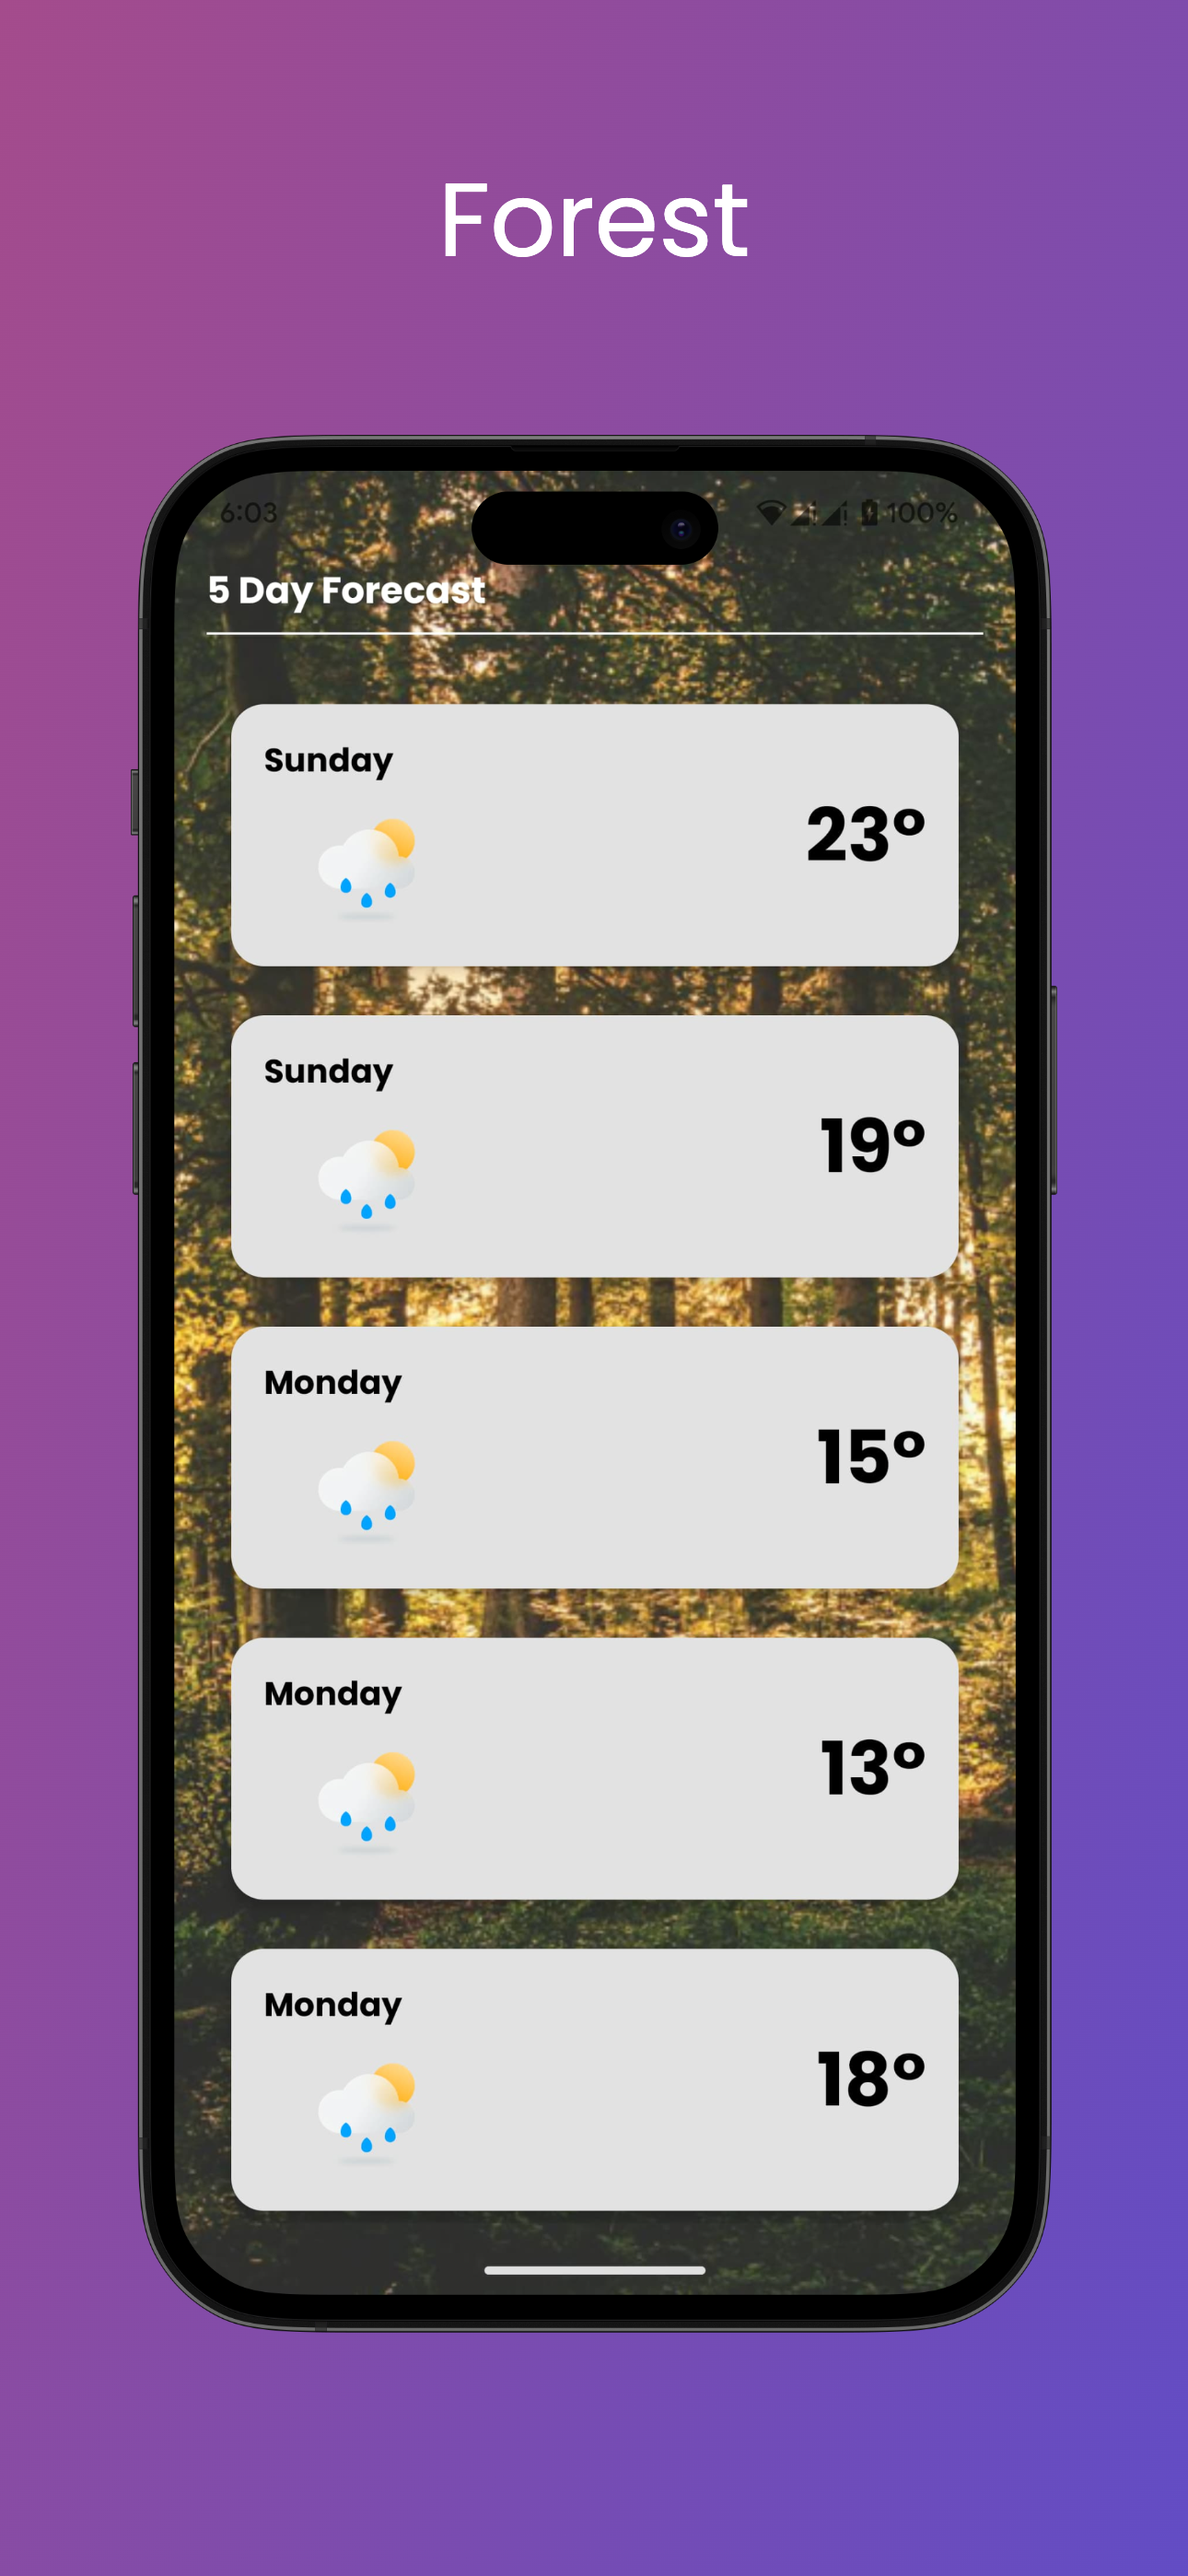
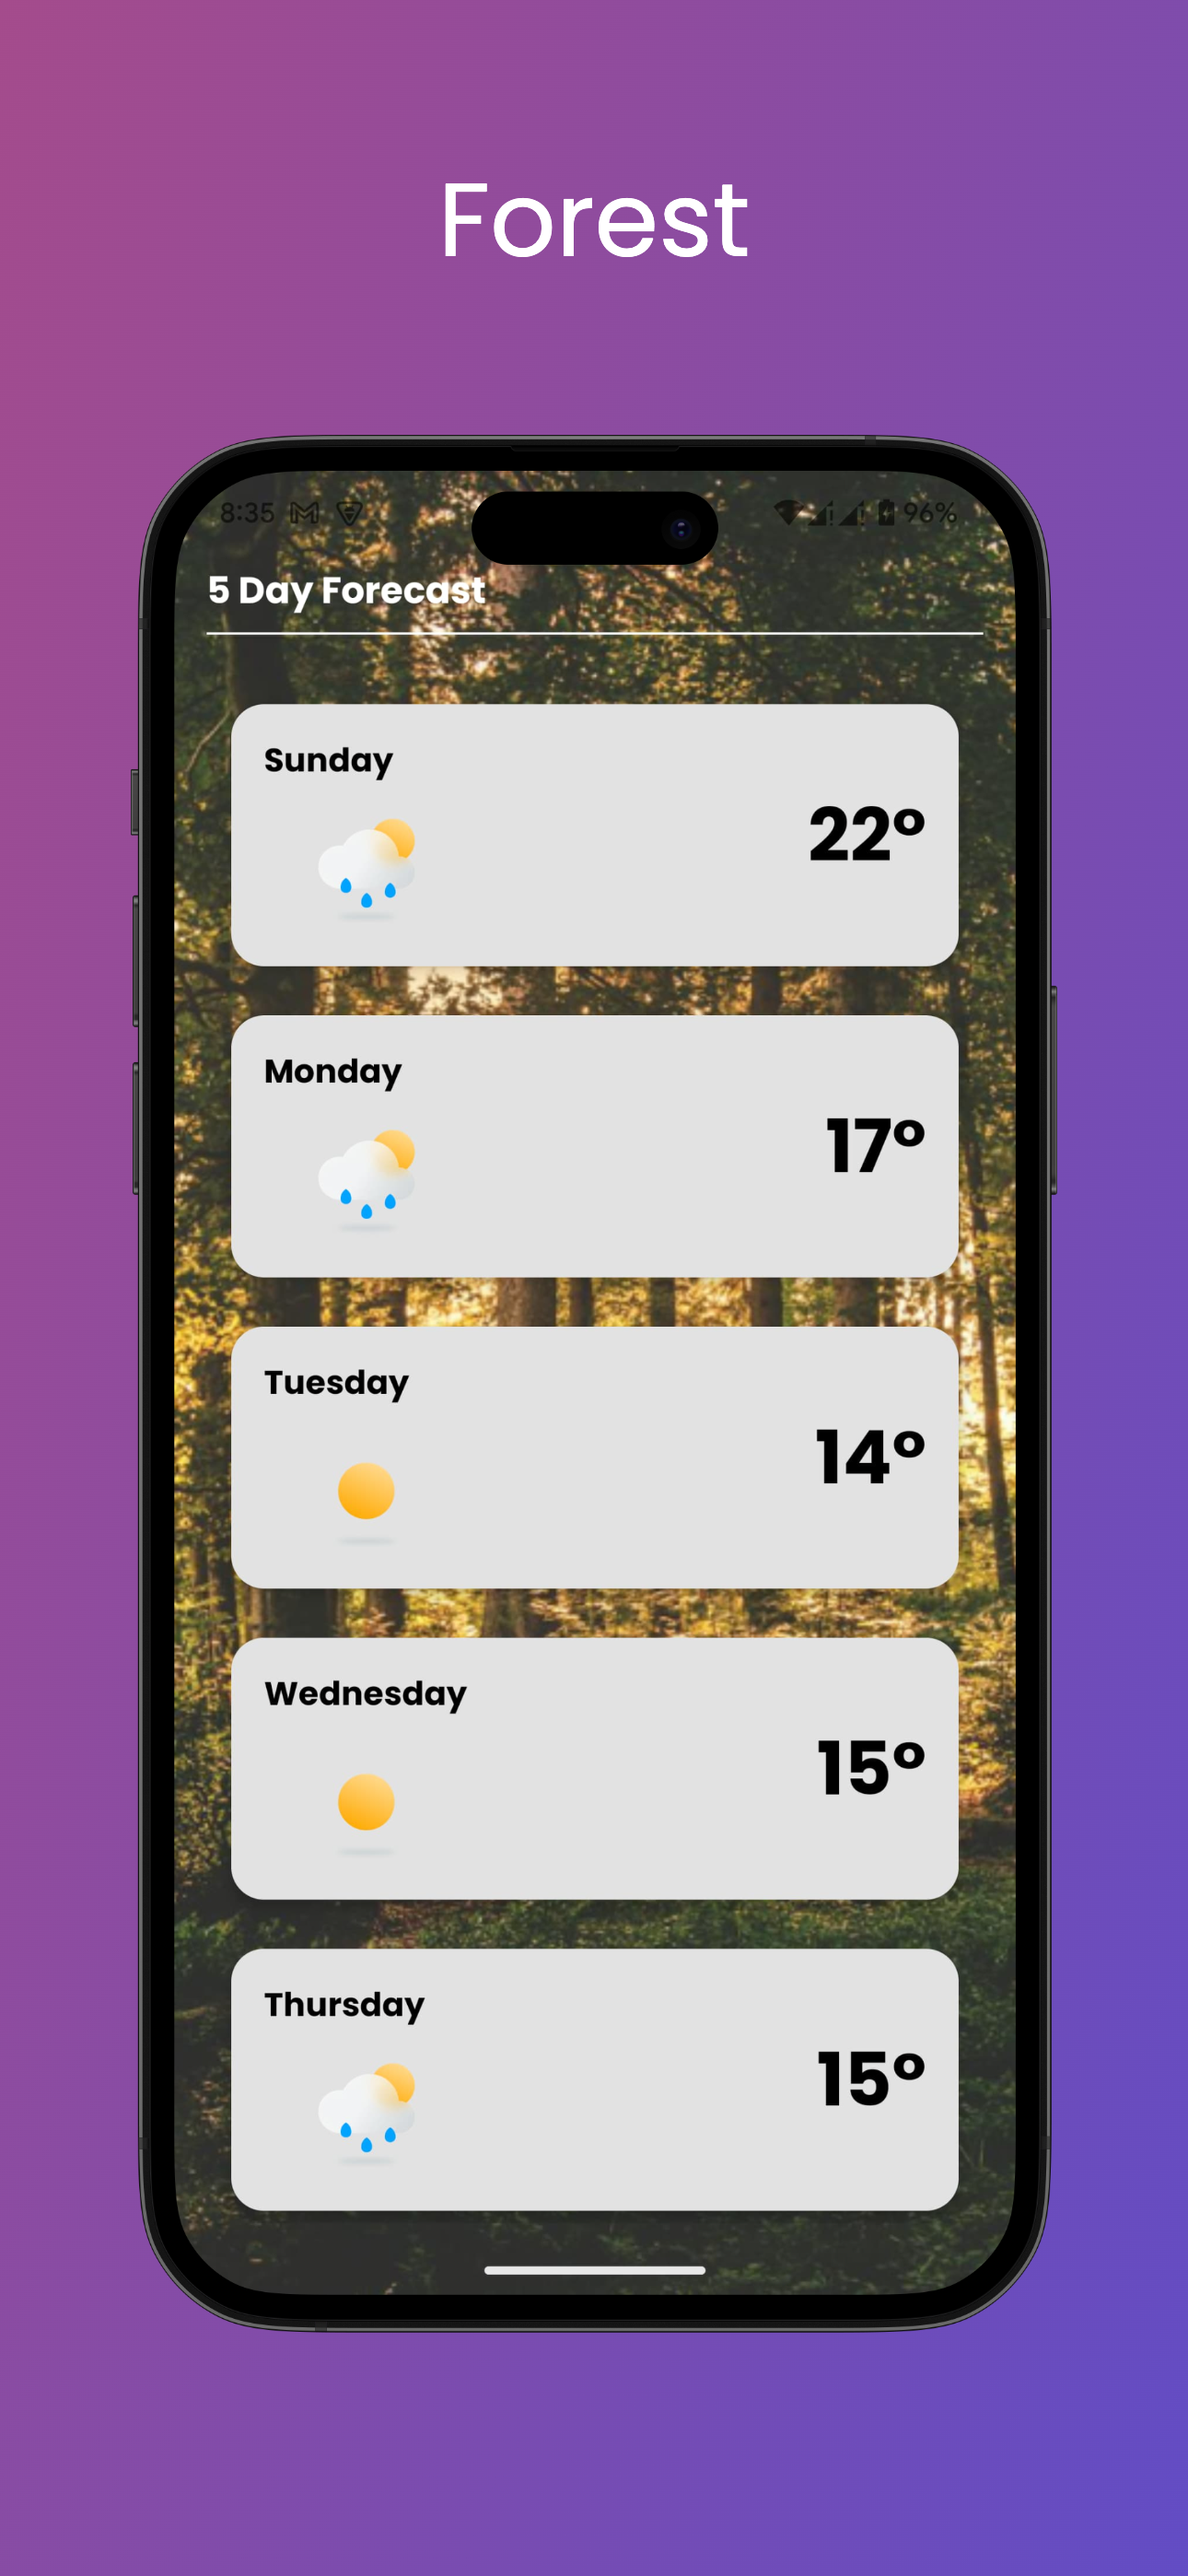
Initial commit

diff --git a/feature/Home/src/main/java/com/dvt/home/presentation/viewmodel/WeatherViewModel.kt b/feature/Home/src/main/java/com/dvt/home/presentation/viewmodel/WeatherViewModel.kt
@@ -61,9 +61,7 @@ class WeatherViewModel @Inject constructor(
     @RequiresApi(Build.VERSION_CODES.O)
     val filteredWeather: State<List<WeatherItemModel>> = derivedStateOf {
         _weather.value.weather?.list
-            ?.groupBy { it.dt_txt ?: "".substring(0, 10) }
-            ?.mapValues { (_, weatherEntries) -> weatherEntries.first() }
-            ?.values
+            ?.distinctBy { it.dt_txt?.substring(0, 10) }
             ?.take(5)
             ?.map { weather ->
                 WeatherItemModel(

diff --git a/feature/Home/src/main/java/com/dvt/home/presentation/view/components/Components.kt b/feature/Home/src/main/java/com/dvt/home/presentation/view/components/Components.kt
@@ -94,7 +94,7 @@ fun WeatherForecastScreen(weatherList: List<WeatherItemModel>) {
     ) {
         backgroundPainter?.let { painter ->
             Image(
-                painter = painter,
+                painter = painterResource(R.drawable.forest),
                 contentDescription = "Weather Background",
                 modifier = Modifier.fillMaxSize(),
                 contentScale = ContentScale.Crop
